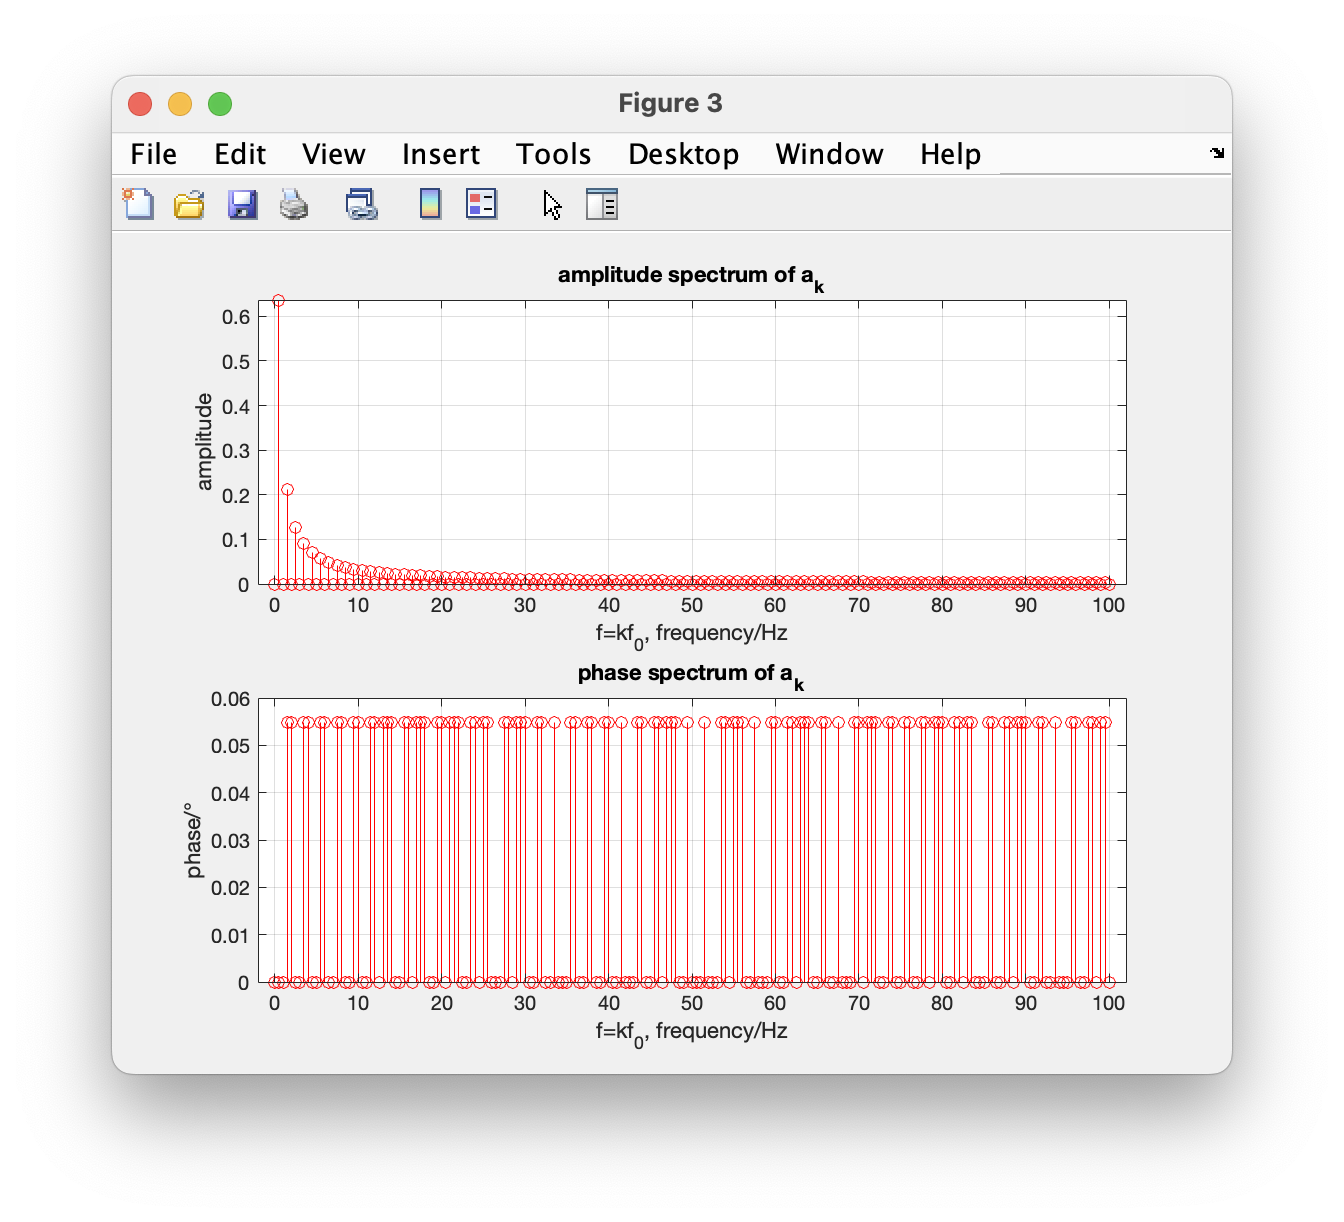
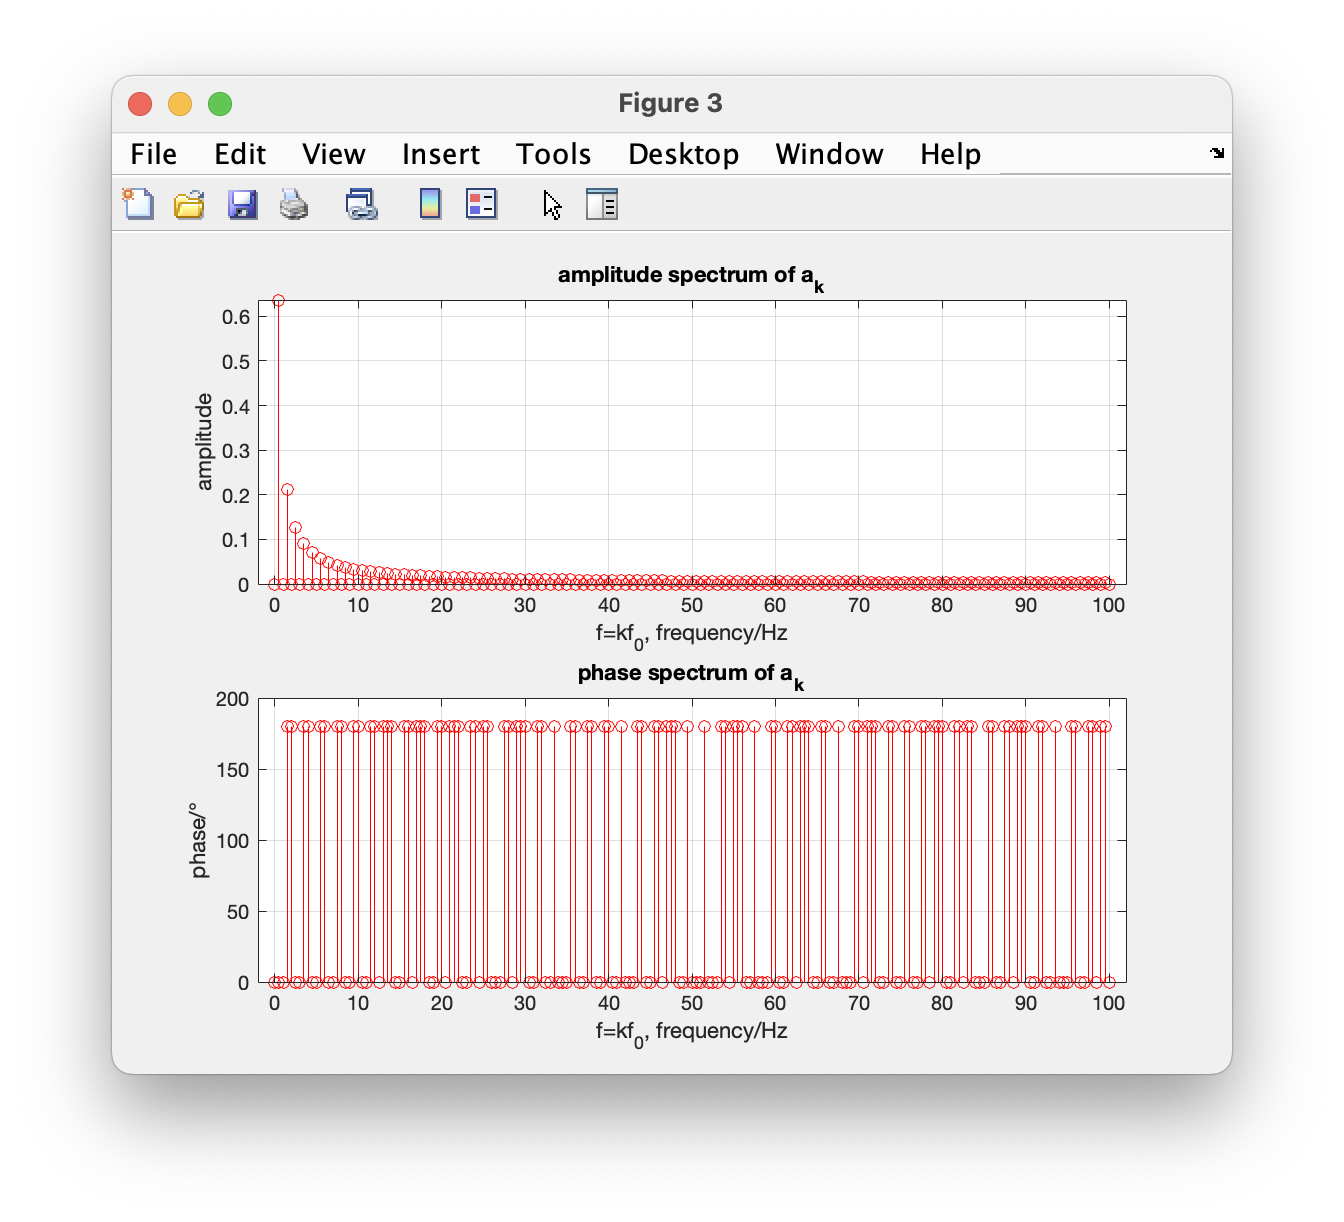
update

Changed region(s): [[0.2188, 0.5597, 0.8438, 0.6219], [0.125, 0.653, 0.1875, 0.7774], [0.1562, 0.5597, 0.1875, 0.653]]

diff --git a/Signals and Systems/EXP/EXP1/code_1_3.m b/Signals and Systems/EXP/EXP1/code_1_3.m
@@ -21,7 +21,7 @@ N = 128;                       % 频域上的采样点数量
 f = fs * (0: N-1) / N;         % 频域上的采样点
 X = fft(x, N) / N;             % 频域上的采样点对应的值
 X_A = abs(X);                  % 频域上的采样点对应的幅值
-X_theta = angle(X) * pi / 180; % 频域上的采样点对应的相值
+X_theta = angle(X) * 180 / pi; % 频域上的采样点对应的相值
 
 % 输出信号x的幅频谱和相频谱
 figure(2);
@@ -47,7 +47,7 @@ ak = 2 * sin(k * pi / 2) ./ (k * pi);
 ak(1) = 0;                            % k对应的傅里叶系数ak
 fk = k * f0;                          % k对应的频域上的采样点
 ak_A = abs(ak);                       % 傅里叶系数ak的幅值
-ak_theta = angle(ak) * pi / 180;      % 傅里叶系数ak的相值
+ak_theta = angle(ak) * 180 / pi;      % 傅里叶系数ak的相值
 
 % 输出傅里叶系数ak的幅和相
 figure(3);

diff --git a/Signals and Systems/EXP/EXP1/code_1_5.m b/Signals and Systems/EXP/EXP1/code_1_5.m
@@ -7,7 +7,7 @@ f0 = 1 / T;           % 信号x的周期
 
 X2 = fft(x2, N) / N;             % 频域上的采样点对应的值
 X2_A = abs(X2);                  % 频域上的采样点对应的幅值
-X2_theta = angle(X2) * pi / 180; % 频域上的采样点对应的相值
+X2_theta = angle(X2) * 180 / pi; % 频域上的采样点对应的相值
 
 % 输出信号x2的幅频谱和相频谱
 figure(5);

diff --git a/Signals and Systems/EXP/EXP1/README.md b/Signals and Systems/EXP/EXP1/README.md
@@ -1,0 +1,65 @@
+# EXP. 1
+
+## (1) 写出x(t)的复指数形式和三角函数形式傅里叶级数表示
+
+复指数形式傅里叶级数表示:
+
+$$
+x(t)=2\sum_{k=-\infty}^\infty \frac{\sin(k\pi/2)}{k\pi} e^{jk\pi t}-1
+$$
+
+三角函数形式傅里叶级数表示:
+
+$$
+x(t)=2\sum_{k=-\infty}^\infty\frac{\sin(k\pi/2)}{k\pi}\cos(k\pi t)+2j\sum_{k=-\infty}^\infty\frac{\sin(k\pi/2)}{k\pi}\sin(k\pi t)-1
+$$
+
+## (2) 利用“分析公式”求出傅里叶系数
+
+由分析公式计算$a_k$:
+
+$$
+\begin{aligned}
+a_k
+&=\frac{1}{T}\int_{-T/2}^{T/2}x(t)e^{-jk\omega_0 t}dt \\
+&=\frac{1}{2}\int_{-1}^{1}x(t)e^{-jk\pi t}dt \\
+&=\frac{1}{2}\int_{-1}^{1}[2u(|t|-0.5)-1]e^{-jk\pi t}dt \\
+&=\int_{-1}^{1}u(|t|-0.5)e^{-jk\pi t}dt - \int_{-1}^{1}e^{-jk\pi t}dt \\
+\end{aligned}\\
+$$
+需要分类讨论:
+$$
+a_k=
+\begin{cases}
+2\frac{\sin(k\pi/2)}{k\pi} & k\neq 0\\
+0 & k=0
+\end{cases}\\
+$$
+
+## (3) 编程，对x(t)进行频谱分析
+
+### i 画出x(t)的时域波形
+
+以x信号在有限的时间区间上以$f_s$为采样频率得到的采样点代替.
+
+### ii 画出幅频谱和相频谱
+
+由于在FFT的x信号实际上为一个采样得到的向量, 所以这里被看作一个离散信号, 因此fft得到的应该是以f_s为周期的Fourier变换, 同时可以把后半部分当作负频对应的值.
+
+### iii 将（2）的理论计算结果与FFT分析结果相对比
+
+a_k的计算是由数学表达式推来的, 所以是解析的.
+
+在幅频谱中可见, a_k不会以f_s为周期, 所以和FFT的输出有不同.
+
+在相频谱中可见, 在有限时域内的FFT, 在相频上的误差影响.
+
+## (4) 利用频谱分析的结果，将主要频谱分量叠加，实现信号的重建，并与原信号对比
+
+主要频谱取基波频率的整数倍, 重建实使用matlab的ifft函数(本质为叠加), 在时域上的设置和原信号$x(t)$一致, 得到$x_{re}(t)$信号.
+
+## (5) 对x(t-0.5)进行频谱分析，并与原信号的频谱分析结果对比，验证傅里叶级数的时移性质和共轭对称性质推论
+
+验证时移性质: 有图可见, 幅频谱几乎一致, 相频谱出现了垂直平移(这里因为相角限制在了-180, 180之间, 所以图上不是很明显), 符合时移性质.
+
+验证共轭对称性质: $x(t)$本身为实信号, 所以$x^*(t)=x(t)$, 得到的$a^*_{-k}=a_{k}$, 符合共轭对称性质.

diff --git a/Signals and Systems/EXP/EXP2/README.md b/Signals and Systems/EXP/EXP2/README.md
@@ -1,60 +1,26 @@
-# FUCK YOU
+# EXP. 2
 
-## EXP. 1
+## 理论计算
 
-### (1)
+### (1) 计算系统的幅度响应，判断该系统是哪一类频率选择性滤波器？（低通、高通、带通、带阻）
 
-$$
-x(t)=2\sum_{k=-\infty}^\infty \frac{\sin(k\pi/2)}{k\pi} e^{jk\pi t}-1
-$$
-
-$$
-x(t)=2\sum_{k=-\infty}^\infty\frac{\sin(k\pi/2)}{k\pi}\cos(k\pi t)+2j\sum_{k=-\infty}^\infty\frac{\sin(k\pi/2)}{k\pi}\sin(k\pi t)-1
-$$
-
-### (2)
-
-$$
-\begin{aligned}
-a_k
-&=\frac{1}{T}\int_{-T/2}^{T/2}x(t)e^{-jk\omega_0 t}dt \\
-&=\frac{1}{2}\int_{-1}^{1}x(t)e^{-jk\pi t}dt \\
-&=\frac{1}{2}\int_{-1}^{1}[2u(|t|-0.5)-1]e^{-jk\pi t}dt \\
-&=\int_{-1}^{1}u(|t|-0.5)e^{-jk\pi t}dt - \int_{-1}^{1}e^{-jk\pi t}dt \\
-\end{aligned}\\
-$$
-
-$$
-a_k=
-\begin{cases}
-2\frac{\sin(k\pi/2)}{k\pi} & k\neq 0\\
-0 & k=0
-\end{cases}\\
-$$
-
-### (3)
-
-
-
-### (4)
-
-$$
-x(t)=2\sum_{k=-\infty}^\infty \frac{\sin(k\pi/2)}{k\pi} e^{jk\pi t}-1 \\
-$$
-
-## EXP. 2
+计算$H(s)$:
 
 $$
 y''+y'+25y = x \\
 s^2Y+sY+25Y = X \\
 \begin{aligned}
 H
-&= \frac{Y}{X} \\
-&= \frac{1}{s^2+s+25} \\
-&= \frac{1}{(s-\frac{-1+j3\sqrt{11}}{2})(s-\frac{-1-j3\sqrt{11}}{2})} \\
+&= \frac{Y}{X} = \frac{1}{s^2+s+25} = \frac{1}{(s-\frac{-1+j3\sqrt{11}}{2})(s-\frac{-1-j3\sqrt{11}}{2})} \\
 &= \frac{1}{j3\sqrt{11}}(\frac{1}{s-\frac{-1+j3\sqrt{11}}{2}}-\frac{1}{s-\frac{-1-j3\sqrt{11}}{2}}) \\
 \end{aligned}
 $$
+
+可知有$H(s)$有极点在$\frac{-1\pm j3\sqrt{11}}{2}$, 所以在复平面的虚轴上, $\frac{-1-j3\sqrt{11}}{2}<\omega<\frac{-1+j3\sqrt{11}}{2}$对应的$H(j\omega)$偏大, 所以为低通性滤波器.
+
+### (2) 求系统的输出信号
+
+用
 
 $$
 x = 10[\sin(1.6\pi t)+\sin(10\pi t)] \\
@@ -63,7 +29,7 @@ y = \frac{10}{2j}(H(j1.6\pi)e^{j1.6\pi t}-H(-j1.6\pi)e^{-j1.6\pi t}+H(j10\pi)e^{
 y = \frac{10}{2j}(H(j1.6\pi)e^{j1.6\pi t}-H(-j1.6\pi)e^{-j1.6\pi t}+H(j10\pi)e^{j10\pi t}-H(-j10\pi)e^{-j10\pi t}) \\
 $$
 
-## EXP. 3
+# EXP. 3
 
 $$
 y''\pm y'+25y=x\\
